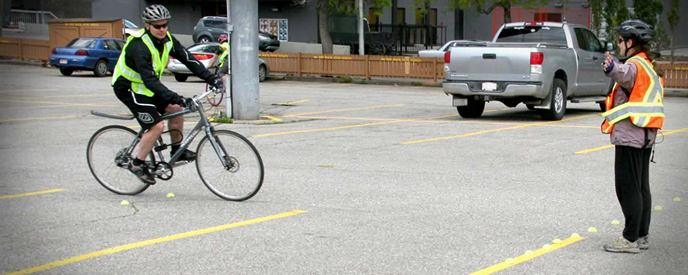
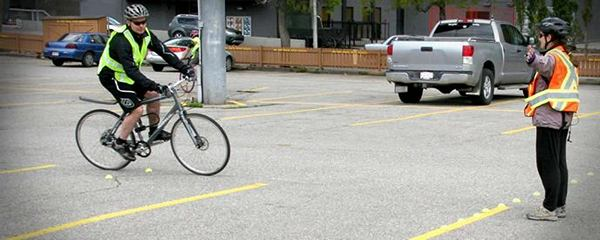
Updated index and other pages
Update main index page and updated images

diff --git a/index.html b/index.html
@@ -17,23 +17,32 @@
 </style>
 <link rel="stylesheet" href="https://cdnjs.cloudflare.com/ajax/libs/font-awesome/4.7.0/css/font-awesome.min.css">
 <meta http-equiv="Content-Type" content="text/html; charset=iso-8859-1"><meta name="description" content="Phil Piltch's Home page... ">
-<meta name="keywords" content="data science, cycling, long distance touring, skiing, Python">
+<meta name="keywords" content="data science,cycling,long distance touring,skiing,Python,application support">
 <title>Phil's Home Page</title></head>
 <p></p><hr width="75%">
-<p style="text-align: center; font-size:24pt; color: royalblue"><b>Making the Leap to Data Science</b>
+<p style="text-align: center; font-size:24pt; color: darkblue"><b>Phil Piltch</b>
+  <p style="text-align: center;font-size:20pt; color: darkblue">Data Science | Technical Support</p>  
 <hr width="75%">
 &nbsp;
 &nbsp;
 <p style="text-align: center;">
 <img src="timeplots.png" alt="time series" border="0" height="400" width="800" ><br>
-
 <hr width="75%">
-</p>
+<br>
+<p style="text-align: center; font-size: 15pt; color: darkblue;">Python, Tableau SQL, Agile, DevOps, GIT, Web, Consulting
+  </p>
+<hr width="75%">
+<p style="text-align:start ; font-size: 12pt; color:mediumblue" > 
+  I am a lifelong learner, using my background in math and fine arts to make connections others might not see.
+  I am decisive, action-oriented and results-focused professional offering extensive IT experience,
+  willing to take on new challenges, and quickly learn new skills. <br>
+  I love being active and have done long-distance cycling, bike camping, hiking, canoeing, and cross country skiing.
+ </p>
+<hr width="75%"
 <p style="font-size: 20pt" ><a href="projects.html">My Projects</a>
 <br><a href="other.html">Other Interests</a>
 <br><a href="about.html">About Me</a>
 </p>
-
 
 
 

diff --git a/other.html b/other.html
@@ -44,7 +44,8 @@
     Courses are run by local groups with instructors certified through Cycle Canada's <a target="_blank" rel="noopener noreferral" href="http://canbikecanada.ca/#">Can-Bike</a> program.
 </p>
 <img src="Instructor.jpg">
-
 <br>
 <hr width="75%">
+<p style="font-size: 20pt">Community Events </p>
+<img src="bikerodeo.jpg">
 </p></body></html>
